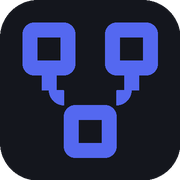
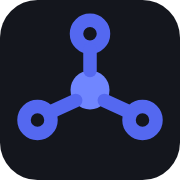
feat(ui): polish pass — default theme, brand mark, accent hierarchy
Default app theme switches to Daylight; new hub-and-spoke brand mark
replaces the generic 3-box glyph across favicon/apple-touch-icon/sidebar
logo; the Suggestions insights-tab icon no longer borrows the brand
accent at rest; sidebar gets an elevation shadow so it reads as a panel
over the canvas instead of a hard two-tone seam; settings drawer nests
Custom providers/App & diagnostics/Voice commands under one collapsed
Advanced group.

diff --git a/static/index.html b/static/index.html
@@ -6,7 +6,7 @@
     <meta name="viewport" content="width=device-width, initial-scale=1.0">
     <title>Cloud Architect AI</title>
     <meta name="description" content="AI-powered cloud architecture diagram generator with live Draw.io preview.">
-    <meta name="theme-color" content="#14161D">
+    <meta name="theme-color" content="#ffffff">
     <link rel="icon" href="/static/favicon.svg" type="image/svg+xml">
     <link rel="icon" href="/static/favicon.png" type="image/png" sizes="32x32">
     <link rel="apple-touch-icon" href="/static/apple-touch-icon.png">
@@ -19,9 +19,9 @@
     <link rel="stylesheet" href="/static/themes/aurora-contrast.css?v=20260810g">
     <script>
         (function () {
-            var known = ['midnight-slate', 'daylight', 'aurora-contrast'];
+            var known = ['daylight', 'midnight-slate', 'aurora-contrast'];
             var stored = localStorage.getItem('drawio-agent-app-theme');
-            document.documentElement.setAttribute('data-theme', known.indexOf(stored) !== -1 ? stored : 'midnight-slate');
+            document.documentElement.setAttribute('data-theme', known.indexOf(stored) !== -1 ? stored : 'daylight');
         })();
     </script>
     <!-- Access gate (static/js/api-key.js): hides the entire app — not just
@@ -51,11 +51,14 @@
             <div class="sidebar-header">
                 <div class="brand-row">
                     <div class="brand-mark">
-                        <svg viewBox="0 0 24 24" fill="none" stroke="currentColor" stroke-width="2" stroke-linecap="round" stroke-linejoin="round">
-                            <rect x="3" y="3" width="7" height="7" rx="1.5"/>
-                            <rect x="14" y="3" width="7" height="7" rx="1.5"/>
-                            <rect x="8.5" y="14" width="7" height="7" rx="1.5"/>
-                            <path d="M6.5 10v2a2 2 0 0 0 2 2h0M17.5 10v2a2 2 0 0 1-2 2h0"/>
+                        <svg viewBox="0 0 24 24" fill="none" stroke="currentColor" stroke-width="1.8" stroke-linecap="round" stroke-linejoin="round">
+                            <circle cx="12" cy="12" r="2.6" fill="currentColor" stroke="none"/>
+                            <circle cx="12" cy="4.5" r="1.8"/>
+                            <circle cx="19" cy="16" r="1.8"/>
+                            <circle cx="5" cy="16" r="1.8"/>
+                            <line x1="12" y1="9.4" x2="12" y2="6.6"/>
+                            <line x1="13.9" y1="13.4" x2="17.4" y2="15"/>
+                            <line x1="10.1" y1="13.4" x2="6.6" y2="15"/>
                         </svg>
                     </div>
                     <div class="brand-text">
@@ -427,87 +430,97 @@
                         </div>
                     </div>
 
-                    <div class="drawer-group" data-group="custom-providers">
+                    <div class="drawer-group" data-group="advanced">
                         <button type="button" class="drawer-group-toggle" aria-expanded="false" onclick="toggleDrawerGroup(this)">
-                            <span class="drawer-group-title">Custom providers</span>
+                            <span class="drawer-group-title">Advanced</span>
                             <span class="drawer-group-chevron" aria-hidden="true"></span>
                         </button>
                         <div class="drawer-group-body" hidden>
-                        <small style="color:var(--text-muted)">Bring your own API key/endpoint — OpenAI/Anthropic/Google-compatible. Stored only in your browser; sent per-request, never saved on the server. A local endpoint (e.g. Ollama at http://localhost:11434/v1) works fine here.</small>
-                        <div id="custom-provider-summary-list" class="provider-card-list"></div>
-                        <button type="button" class="btn-soft" onclick="openProviderConfigDialog()">Manage providers…</button>
-                        </div>
-                    </div>
 
-                    <div class="drawer-group" data-group="app-diagnostics">
-                        <button type="button" class="drawer-group-toggle" aria-expanded="false" onclick="toggleDrawerGroup(this)">
-                            <span class="drawer-group-title">App &amp; diagnostics</span>
-                            <span class="drawer-group-chevron" aria-hidden="true"></span>
-                        </button>
-                        <div class="drawer-group-body" hidden>
-                        <label for="app-theme-select">App theme</label>
-                        <select id="app-theme-select" aria-label="Application theme" onchange="changeAppTheme()">
-                            <option value="midnight-slate">Midnight Slate (default)</option>
-                            <option value="daylight">Daylight</option>
-                            <option value="aurora-contrast">Aurora Contrast</option>
-                        </select>
-                        <div class="verbose-toggle-row">
-                            <div>
-                                <span>Show AI reasoning</span>
-                                <small>Surface pipeline thinking steps in chat</small>
+                        <div class="drawer-group drawer-subgroup" data-group="custom-providers">
+                            <button type="button" class="drawer-group-toggle" aria-expanded="false" onclick="toggleDrawerGroup(this)">
+                                <span class="drawer-group-title">Custom providers</span>
+                                <span class="drawer-group-chevron" aria-hidden="true"></span>
+                            </button>
+                            <div class="drawer-group-body" hidden>
+                            <small style="color:var(--text-muted)">Bring your own API key/endpoint — OpenAI/Anthropic/Google-compatible. Stored only in your browser; sent per-request, never saved on the server. A local endpoint (e.g. Ollama at http://localhost:11434/v1) works fine here.</small>
+                            <div id="custom-provider-summary-list" class="provider-card-list"></div>
+                            <button type="button" class="btn-soft" onclick="openProviderConfigDialog()">Manage providers…</button>
                             </div>
-                            <label class="toggle-switch" title="Toggle AI reasoning display">
-                                <input type="checkbox" id="show-reasoning-toggle" onchange="savePromptSettings()">
-                                <span class="toggle-slider"></span>
-                            </label>
                         </div>
-                        <div class="verbose-toggle-row">
-                            <div>
-                                <span>Pipeline logs</span>
-                                <small>Show the right-side build log panel</small>
-                            </div>
-                            <label class="toggle-switch" title="Toggle pipeline log panel">
-                                <input type="checkbox" id="verbose-toggle" onchange="toggleVerbosePanel()">
-                                <span class="toggle-slider"></span>
-                            </label>
-                        </div>
-                        <div class="verbose-toggle-row">
-                            <div>
-                                <span>Save new runs</span>
-                                <small>Persist each /chat response under data/captures (large files)</small>
-                            </div>
-                            <label class="toggle-switch" title="Toggle saving captured runs">
-                                <input type="checkbox" id="save-captures-toggle" onchange="savePromptSettings()">
-                                <span class="toggle-slider"></span>
-                            </label>
-                        </div>
-                        <label for="captures-select">Past responses (view only — no LLM/MCP call)</label>
-                        <select id="captures-select" aria-label="Captured runs"></select>
-                        <div class="btn-group">
-                            <button type="button" class="btn-soft" onclick="loadCapturesList()">Refresh</button>
-                            <button type="button" class="btn-soft" onclick="playbackSelectedCapture()">Load into preview</button>
-                        </div>
-                        </div>
-                    </div>
 
-                    <div class="drawer-group" data-group="voice">
-                        <button type="button" class="drawer-group-toggle" aria-expanded="false" onclick="toggleDrawerGroup(this)">
-                            <span class="drawer-group-title">Voice commands</span>
-                            <span class="drawer-group-chevron" aria-hidden="true"></span>
-                        </button>
-                        <div class="drawer-group-body" hidden>
-                        <p class="voice-help-lead">Press <strong>Space</strong> (or the mic button) to start/stop listening. Dictate a diagram prompt or say a command. Say <strong>help</strong> for the full list in chat. While typing in the composer, Space inserts a normal space — press Space outside the field, or again while listening, to toggle the mic.</p>
-                        <ul class="voice-help-list">
-                            <li><span>Send / stop</span> “send message”, “stop”, “stop listening”</li>
-                            <li><span>Chat</span> “clear chat”, “attach file”, “clear attachments”</li>
-                            <li><span>Platform</span> “switch to aws / gcp / azure / multi”</li>
-                            <li><span>Settings</span> “open settings”, “theme daylight”, “enable cost”</li>
-                            <li><span>Diagram</span> “download diagram”, “export png”, “open in drawio”</li>
-                            <li><span>Insights</span> “apply waf”, “apply compliance”, “apply all insights”</li>
-                            <li><span>Patterns</span> “list patterns”, “use pattern 1”, “pattern serverless”</li>
-                        </ul>
-                        <p class="voice-help-limits">Limits: attach only opens the file picker; editing inside the draw.io canvas is mouse/keyboard only; Chrome or Edge on localhost/https. Captures save only when <strong>Save new runs</strong> is on.</p>
-                        <button type="button" class="btn-soft" onclick="showVoiceCommandHelp()">Show full command list</button>
+                        <div class="drawer-group drawer-subgroup" data-group="app-diagnostics">
+                            <button type="button" class="drawer-group-toggle" aria-expanded="false" onclick="toggleDrawerGroup(this)">
+                                <span class="drawer-group-title">App &amp; diagnostics</span>
+                                <span class="drawer-group-chevron" aria-hidden="true"></span>
+                            </button>
+                            <div class="drawer-group-body" hidden>
+                            <label for="app-theme-select">App theme</label>
+                            <select id="app-theme-select" aria-label="Application theme" onchange="changeAppTheme()">
+                                <option value="daylight">Daylight (default)</option>
+                                <option value="midnight-slate">Midnight Slate</option>
+                                <option value="aurora-contrast">Aurora Contrast</option>
+                            </select>
+                            <div class="verbose-toggle-row">
+                                <div>
+                                    <span>Show AI reasoning</span>
+                                    <small>Surface pipeline thinking steps in chat</small>
+                                </div>
+                                <label class="toggle-switch" title="Toggle AI reasoning display">
+                                    <input type="checkbox" id="show-reasoning-toggle" onchange="savePromptSettings()">
+                                    <span class="toggle-slider"></span>
+                                </label>
+                            </div>
+                            <div class="verbose-toggle-row">
+                                <div>
+                                    <span>Pipeline logs</span>
+                                    <small>Show the right-side build log panel</small>
+                                </div>
+                                <label class="toggle-switch" title="Toggle pipeline log panel">
+                                    <input type="checkbox" id="verbose-toggle" onchange="toggleVerbosePanel()">
+                                    <span class="toggle-slider"></span>
+                                </label>
+                            </div>
+                            <div class="verbose-toggle-row">
+                                <div>
+                                    <span>Save new runs</span>
+                                    <small>Persist each /chat response under data/captures (large files)</small>
+                                </div>
+                                <label class="toggle-switch" title="Toggle saving captured runs">
+                                    <input type="checkbox" id="save-captures-toggle" onchange="savePromptSettings()">
+                                    <span class="toggle-slider"></span>
+                                </label>
+                            </div>
+                            <label for="captures-select">Past responses (view only — no LLM/MCP call)</label>
+                            <select id="captures-select" aria-label="Captured runs"></select>
+                            <div class="btn-group">
+                                <button type="button" class="btn-soft" onclick="loadCapturesList()">Refresh</button>
+                                <button type="button" class="btn-soft" onclick="playbackSelectedCapture()">Load into preview</button>
+                            </div>
+                            </div>
+                        </div>
+
+                        <div class="drawer-group drawer-subgroup" data-group="voice">
+                            <button type="button" class="drawer-group-toggle" aria-expanded="false" onclick="toggleDrawerGroup(this)">
+                                <span class="drawer-group-title">Voice commands</span>
+                                <span class="drawer-group-chevron" aria-hidden="true"></span>
+                            </button>
+                            <div class="drawer-group-body" hidden>
+                            <p class="voice-help-lead">Press <strong>Space</strong> (or the mic button) to start/stop listening. Dictate a diagram prompt or say a command. Say <strong>help</strong> for the full list in chat. While typing in the composer, Space inserts a normal space — press Space outside the field, or again while listening, to toggle the mic.</p>
+                            <ul class="voice-help-list">
+                                <li><span>Send / stop</span> “send message”, “stop”, “stop listening”</li>
+                                <li><span>Chat</span> “clear chat”, “attach file”, “clear attachments”</li>
+                                <li><span>Platform</span> “switch to aws / gcp / azure / multi”</li>
+                                <li><span>Settings</span> “open settings”, “theme daylight”, “enable cost”</li>
+                                <li><span>Diagram</span> “download diagram”, “export png”, “open in drawio”</li>
+                                <li><span>Insights</span> “apply waf”, “apply compliance”, “apply all insights”</li>
+                                <li><span>Patterns</span> “list patterns”, “use pattern 1”, “pattern serverless”</li>
+                            </ul>
+                            <p class="voice-help-limits">Limits: attach only opens the file picker; editing inside the draw.io canvas is mouse/keyboard only; Chrome or Edge on localhost/https. Captures save only when <strong>Save new runs</strong> is on.</p>
+                            <button type="button" class="btn-soft" onclick="showVoiceCommandHelp()">Show full command list</button>
+                            </div>
+                        </div>
+
                         </div>
                     </div>
                 </div>

diff --git a/static/styles.css b/static/styles.css
@@ -79,6 +79,13 @@
             min-height: 0;
             position: relative;
             overflow: hidden;
+            /* The canvas area to the right stays light-neutral in every theme
+               (matches the embedded draw.io iframe's own white canvas — see
+               the .collapsed-rail comment below). Against a dark sidebar that
+               reads as an abrupt two-tone stitch without this: the shadow
+               reframes it as a dark control rail floating in front of a lit
+               canvas, not a seam. */
+            box-shadow: var(--shadow-panel);
             transition: width 0.18s ease, min-width 0.18s ease;
         }
 
@@ -2222,17 +2229,22 @@
         .suggestion-text {
             line-height: 1.35;
         }
-        .network-insights-sub {
+        .network-insights-sub,
+        .drawer-subgroup {
             margin-top: 0.75rem;
             padding: 0.35rem 0.55rem 0.55rem;
             border: 1px solid var(--border, rgba(127, 127, 127, 0.35));
             border-radius: var(--radius-md);
             background: rgba(127, 127, 127, 0.06);
         }
-        .network-insights-sub > .drawer-group-toggle {
+        .network-insights-sub > .drawer-group-toggle,
+        .drawer-subgroup > .drawer-group-toggle {
             width: 100%;
             margin: 0;
             padding: 0.4rem 0;
+        }
+        .drawer-subgroup + .drawer-subgroup {
+            margin-top: 0.55rem;
         }
         .network-insights-hint {
             display: block;
@@ -3230,8 +3242,11 @@
             position: relative;
             min-height: 0;
             background-color: var(--canvas-surface);
+            /* --canvas-border alone is too light to read as a grid at 1px —
+               mixed toward --canvas-text-muted so the empty canvas reads as
+               textured/waiting rather than blank before a diagram loads. */
             background-image:
-                radial-gradient(circle, var(--canvas-border) 1px, transparent 1px),
+                radial-gradient(circle, color-mix(in srgb, var(--canvas-border) 55%, var(--canvas-text-muted)) 1px, transparent 1px),
                 radial-gradient(600px 400px at 12% 8%, rgba(99, 102, 241, 0.09), transparent 65%),
                 radial-gradient(560px 380px at 88% 92%, rgba(244, 114, 182, 0.08), transparent 65%);
             background-size: 22px 22px, auto, auto;
@@ -4130,7 +4145,6 @@
 }
 .insights-tab[data-tab="cost"] .insights-tab-icon { color: var(--cost-accent); }
 .insights-tab[data-tab="waf"] .insights-tab-icon { color: var(--success-soft); }
-.insights-tab[data-tab="suggestions"] .insights-tab-icon { color: var(--accent); }
 .insights-tab[data-tab="logs"] .insights-tab-icon { color: var(--info); }
 .insights-tab.active .insights-tab-icon {
     opacity: 1;

diff --git a/static/js/state.js b/static/js/state.js
@@ -1,7 +1,7 @@
 const DRAWIO_ORIGIN = 'https://embed.diagrams.net';
 const DRAWIO_THEMES = ['kennedy', 'atlas', 'dark', 'min', 'sketch', 'simple'];
 const THEME_STORAGE_KEY = 'drawio-agent-drawio-theme';
-const APP_THEMES = ['midnight-slate', 'daylight', 'aurora-contrast'];
+const APP_THEMES = ['daylight', 'midnight-slate', 'aurora-contrast'];
 const APP_THEME_KEY = 'drawio-agent-app-theme';
 const APP_THEME_TO_DRAWIO_THEME = {
     'midnight-slate': 'kennedy',
